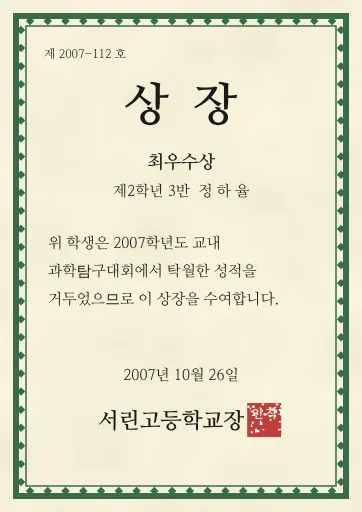
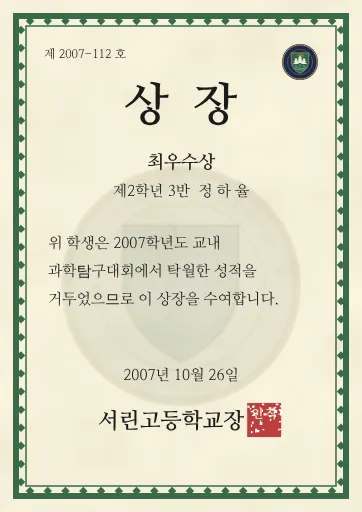
Art: framed photos rendered from the real 3D campus, 서린고 emblem and 교가
tools/capture_photos.mjs renders 11 daylight shots of the actual game world
(aerial, facade, front steps, gate/서린동 street, field, auditorium, gym,
library, classroom, broadcast room) under headless swiftshader, and
tools/photo_fx.js develops them into era photographs: 1968 deckle-edged
B&W, 80s/90s colour film prints (fade, colour cast, grain, vignette, light
leaks, orange date stamps, scanned borders, dust) and 2008 digital shots,
with indistinct uniformed silhouettes for class/club/event photos.
18 photos (6 graduation, 개교 1968, aerial hero, 1998 방송부, 체육대회,
서린제, seasons, rooms). New painted 교표 and 교가; emblem on school
certificates. artFrames: new kinds/placements (64 frames), atlas up to
2048x3072. Art total 1.4 MB.

Claude-Session: https://claude.ai/code/session_01R9gTDhU7qFYGGyPHGYxmav

Changed region(s): [[0.3343, 0.4375, 0.6685, 0.7188], [0.7597, 0.0625, 0.8812, 0.1562]]

diff --git a/tools/photo_fx.js b/tools/photo_fx.js
@@ -1,0 +1,182 @@
+// 사진 현상기 (tools/capture_photos.mjs 가 빈 페이지에 넣어 돌린다)
+//   게임 3D 장면을 찍은 원본(raw)에 인물 실루엣 · 만국기 대신 삼각 깃발 · 현수막 · 꽃가지 등을 얹고,
+//   시대별 사진 질감을 입힌다: 1968 흑백 인화(물결 테두리) · 80~90년대 컬러 필름(바램 · 색 틀어짐 · 입자 · 주변부 어둠 · 빛샘 ·
+//   오렌지 날짜 각인 · 흰 테두리 인화지 스캔) · 2008 디지털 카메라(선명 · 차가운 화이트밸런스 · 센서 노이즈).
+//   얼굴은 모두 이목구비 없이 흐릿한 실루엣이다 (실제 인물 없음).
+(() => {
+const R = s => { let a = s >>> 0; return () => { a = a + 0x6D2B79F5 | 0; let t = Math.imul(a ^ a >>> 15, 1 | a); t = t + Math.imul(t ^ t >>> 7, 61 | t) ^ t; return ((t ^ t >>> 14) >>> 0) / 4294967296; }; };
+let rnd = R(1); const rr = (a, b) => a + (b - a) * rnd();
+const mk = (w, h) => { const c = document.createElement('canvas'); c.width = w; c.height = h; return c; };
+const cx = c => c.getContext('2d', { willReadFrequently: true });
+const clamp = v => v < 0 ? 0 : v > 255 ? 255 : v;
+const RAW = {};
+window.loadRaws = async raws => { for (const [k, u] of Object.entries(raws)) { const im = new Image(); im.src = u; await im.decode(); RAW[k] = im; } };
+
+// ── 원본 자르기 ──
+function frame(src, W, H, crop = [0, 0, 1, 1]) { const im = RAW[src]; if (!im) return null; const c = mk(W, H), g = cx(c);
+  g.drawImage(im, crop[0] * im.width, crop[1] * im.height, crop[2] * im.width, crop[3] * im.height, 0, 0, W, H); return c; }
+
+// ── 인물 실루엣 (교복 · 체육복 · 정장) ──
+const SKIN = ['#c99a78', '#b88a68', '#d2a684', '#a87c5c'], HAIR = ['#141110', '#1c1712', '#221a14'];
+function person(g, x, y, s, o) {   // y = 어깨선, s = 머리 반지름 (얼굴은 이목구비 없는 흐린 타원)
+  const w = s * (o.wide || 3.1), body = o.body || s * 5;
+  const B = new Path2D(), sl = s * rr(.15, .35); B.moveTo(x - w / 2, y + s * .6); B.quadraticCurveTo(x - w / 2 + s * .05, y - s * .1 + sl, x - w * .3, y - s * .32); B.lineTo(x + w * .3, y - s * .32); B.quadraticCurveTo(x + w / 2 - s * .05, y - s * .1 + sl, x + w / 2, y + s * .6); B.lineTo(x + w / 2 - s * .05, y + body); B.lineTo(x - w / 2 + s * .05, y + body); B.closePath();
+  g.fillStyle = o.coat; g.fill(B);
+  const lg = g.createLinearGradient(x - w / 2, y - s, x + w / 2, y + body); lg.addColorStop(0, 'rgba(255,255,255,.16)'); lg.addColorStop(.45, 'rgba(255,255,255,0)'); lg.addColorStop(1, 'rgba(0,0,0,.35)'); g.fillStyle = lg; g.fill(B);
+  g.strokeStyle = 'rgba(0,0,0,.35)'; g.lineWidth = Math.max(.6, s * .12); g.beginPath(); g.moveTo(x - w * .36, y + s * .9); g.lineTo(x - w * .4, y + body); g.moveTo(x + w * .36, y + s * .9); g.lineTo(x + w * .4, y + body); g.stroke();   // 팔 윤곽
+  if (o.shirt) { g.fillStyle = o.shirt; g.beginPath(); g.moveTo(x - s * .55, y - s * .3); g.lineTo(x + s * .55, y - s * .3); g.lineTo(x, y + s * 1.5); g.closePath(); g.fill(); }
+  if (o.tie) { g.fillStyle = o.tie; g.fillRect(x - s * .14, y - s * .1, s * .28, s * 1.3); }
+  if (o.collar) { g.fillStyle = o.collar; g.fillRect(x - s * .6, y - s * .42, s * 1.2, s * .3); }
+  g.fillStyle = o.skin; g.fillRect(x - s * .32, y - s * .75, s * .64, s * .6);   // 목
+  g.beginPath(); g.ellipse(x, y - s * 1.4, s * .82, s, 0, 0, 7); g.fill();
+  const sh = g.createLinearGradient(x - s, 0, x + s, 0); sh.addColorStop(0, 'rgba(0,0,0,.18)'); sh.addColorStop(.5, 'rgba(0,0,0,0)'); sh.addColorStop(1, 'rgba(0,0,0,.22)'); g.fillStyle = sh; g.beginPath(); g.ellipse(x, y - s * 1.4, s * .82, s, 0, 0, 7); g.fill();
+  g.fillStyle = o.hair; g.beginPath();
+  if (o.long) { g.ellipse(x, y - s * 1.55, s * .92, s * .98, 0, Math.PI * .95, Math.PI * 2.05); g.fill(); g.fillRect(x - s * .92, y - s * 1.55, s * .3, s * 1.45); g.fillRect(x + s * .62, y - s * 1.55, s * .3, s * 1.45); }
+  else { g.ellipse(x, y - s * 1.62, s * .86, s * .82, 0, Math.PI, Math.PI * 2); g.fill(); g.fillRect(x - s * .86, y - s * 1.66, s * .2, s * .55); g.fillRect(x + s * .66, y - s * 1.66, s * .2, s * .55); }
+  if (o.cap) { g.fillStyle = o.cap; g.fillRect(x - s * .9, y - s * 2.4, s * 1.8, s * .55); g.fillRect(x - s * 1.05, y - s * 1.9, s * 2.1, s * .14); }
+}
+const UNI = {   // 졸업 연도별 교복
+  1968: { coat: '#1a1a1c', collar: '#1a1a1c', cap: '#141416', hair: 1 },
+  1989: { coat: '#1b1c22', collar: '#e8e6e0', hair: 1 },
+  1993: { coat: '#20243a', shirt: '#e6e4de', tie: '#5a2026' },
+  1997: { coat: '#1f2a44', shirt: '#ebe9e4', tie: '#6a1e2a' },
+  2001: { coat: '#2a3426', shirt: '#ecebe6', tie: '#6a5520' },
+  2004: { coat: '#1e2740', shirt: '#eeeeea', tie: '#7a2030' },
+  2007: { coat: '#262c3e', shirt: '#f0f0ee', tie: '#2a4a7a' },
+};
+function crowdRows(c, o) {   // 계단 위 단체 사진: rows = [[y(0..1), 명수, 머리 반지름(px)], ...] 뒤에서 앞 순서
+  const L = mk(c.width, c.height), g = cx(L), W = c.width, u = o.uni, x0 = (o.x0 ?? .08) * W, x1 = (o.x1 ?? .92) * W;
+  o.rows.forEach(([fy, n, s], ri) => { const y = fy * c.height, dx = (x1 - x0) / (n - 1), off = ri % 2 ? dx / 2 : 0;
+    for (let i = 0; i < n; i++) { const x = x0 + i * dx + off * (i < n - 1 ? 1 : 0) + rr(-1.5, 1.5), girl = o.mixed && rnd() < .45, teacher = ri === o.rows.length - 1 && Math.abs(i - (n - 1) / 2) < 2.1 && o.teachers;
+      person(g, x, y + rr(-1.5, 1.5), s * rr(.94, 1.05), teacher ? { coat: ['#3a3a3e', '#4a4238', '#2c2e34'][i % 3], shirt: '#e8e6e0', tie: '#5a3030', skin: SKIN[i % 4], hair: '#2a2622', wide: 3.3 }
+        : { ...u, cap: u.cap && !girl ? u.cap : null, long: girl, skin: SKIN[(i + ri) % 4], hair: HAIR[i % 3], body: s * 6 }); } });
+  const b = mk(c.width, c.height), q = cx(b); q.filter = `blur(${o.soft ?? .7}px)`; q.drawImage(L, 0, 0); cx(c).drawImage(b, 0, 0);
+  // 발치 그림자
+  const G = cx(c); G.fillStyle = 'rgba(0,0,0,.18)'; o.rows.forEach(([fy, n, s]) => G.fillRect(x0 - s, fy * c.height + s * 5.4, x1 - x0 + 2 * s, s * .8));
+}
+function scatter(c, n, area, s, o) {   // 운동장 · 광장의 작은 사람들
+  const g = cx(c); for (let i = 0; i < n; i++) { const fy = rr(area[1], area[3]), k = .55 + (fy - area[1]) / (area[3] - area[1]) * .7, x = rr(area[0], area[2]) * c.width, y = fy * c.height;
+    person(g, x, y, s * k, { coat: o.coats[i % o.coats.length], shirt: o.shirt, skin: SKIN[i % 4], hair: HAIR[i % 3], long: rnd() < .4, body: s * k * 5.5 }); }
+}
+function bunting(c, lines, seed) {   // 운동장 위 줄 깃발 (단색 삼각기 — 국기 아님)
+  const g = cx(c), cols = ['#d23a2a', '#f0c22a', '#2a6ad0', '#2aa04a', '#f4f0e8', '#e06a1a']; rnd = R(seed);
+  for (const [x0, y0, x1, y1, sag] of lines) { const W = c.width, H = c.height; g.strokeStyle = 'rgba(40,40,40,.7)'; g.lineWidth = 1; g.beginPath();
+    const P = t => [(x0 + (x1 - x0) * t) * W, (y0 + (y1 - y0) * t + sag * 4 * t * (1 - t)) * H]; for (let t = 0; t <= 1.001; t += .02) { const [x, y] = P(t); t ? g.lineTo(x, y) : g.moveTo(x, y); } g.stroke();
+    const n = 34; for (let i = 0; i < n; i++) { const t = (i + .5) / n, [x, y] = P(t), sz = 6 * (1 - Math.abs(t - .5) * .3); g.fillStyle = cols[i % cols.length]; g.beginPath(); g.moveTo(x - sz * .6, y); g.lineTo(x + sz * .6, y); g.lineTo(x + rr(-1, 1), y + sz * 1.3); g.closePath(); g.fill(); } }
+}
+function banner(c, x, y, w, h, txt, sub, col = '#b8242a') { const g = cx(c); g.save(); g.fillStyle = col; g.fillRect(x, y, w, h); g.strokeStyle = 'rgba(255,255,255,.7)'; g.lineWidth = 1; g.strokeRect(x + 2, y + 2, w - 4, h - 4);
+  g.fillStyle = '#fff8e0'; g.textAlign = 'center'; g.textBaseline = 'middle'; g.font = `700 ${h * .5 | 0}px "Noto Sans KR"`; g.fillText(txt, x + w / 2, y + h * (sub ? .4 : .52), w - 8);
+  if (sub) { g.font = `400 ${h * .22 | 0}px "Noto Sans KR"`; g.fillText(sub, x + w / 2, y + h * .78, w - 8); } g.restore(); }
+function tent(c, x, y, w, h, col) { const g = cx(c); g.fillStyle = col; g.beginPath(); g.moveTo(x, y + h * .35); g.lineTo(x + w * .15, y); g.lineTo(x + w * .85, y); g.lineTo(x + w, y + h * .35); g.closePath(); g.fill();
+  g.fillStyle = 'rgba(0,0,0,.35)'; g.fillRect(x + w * .02, y + h * .35, w * .96, h * .06); g.fillStyle = '#555'; g.fillRect(x + 2, y + h * .35, 1.5, h * .65); g.fillRect(x + w - 3, y + h * .35, 1.5, h * .65); }
+function branches(c, side, kind, seed) {   // 초점 밖 앞쪽 나뭇가지: 벚꽃(spring) · 은행잎(autumn)
+  rnd = R(seed); const L = mk(c.width, c.height), g = cx(L), W = c.width, H = c.height, sx = side === 'L' ? 0 : W, dir = side === 'L' ? 1 : -1;
+  const pts = []; g.strokeStyle = '#2a1e18'; g.lineCap = 'round';
+  const br = (x, y, a, len, w, d) => { const x2 = x + Math.cos(a) * len, y2 = y + Math.sin(a) * len; g.lineWidth = w; g.beginPath(); g.moveTo(x, y); g.quadraticCurveTo((x + x2) / 2 + rr(-8, 8), (y + y2) / 2 + rr(-8, 8), x2, y2); g.stroke(); pts.push([x2, y2]);
+    if (d > 0) { br(x2, y2, a + rr(-.6, -.15), len * .66, w * .62, d - 1); br(x2, y2, a + rr(.15, .6), len * .62, w * .6, d - 1); } else pts.push([(x + x2) / 2, (y + y2) / 2]); };
+  br(sx, H * .06, side === 'L' ? .35 : Math.PI - .35, W * .2, 9, 4);
+  for (const [x, y] of pts) for (let k = 0; k < (kind === 'spring' ? 7 : 4); k++) { const r = rr(3, 7); g.fillStyle = kind === 'spring' ? `rgba(${248 + rr(-6, 6) | 0},${214 + rr(-20, 20) | 0},${222 + rr(-10, 10) | 0},.9)` : `rgba(${232 + rr(-10, 10) | 0},${186 + rr(-24, 20) | 0},${40 + rr(-20, 20) | 0},.92)`; g.beginPath(); g.arc(x + rr(-12, 12), y + rr(-10, 10), r, 0, 7); g.fill(); }
+  const b = cx(c); b.save(); b.filter = 'blur(3px)'; b.drawImage(L, 0, 0); b.restore();
+  if (kind === 'autumn') { const q = cx(c); for (let i = 0; i < 90; i++) { q.fillStyle = `rgba(${226 + rr(-12, 12) | 0},${180 + rr(-30, 20) | 0},40,${rr(.5, .9)})`; q.beginPath(); q.ellipse(rr(0, W), rr(.86, 1) * H, rr(1.5, 3), rr(1, 1.8), rr(0, 3), 0, 7); q.fill(); } }
+}
+
+// ── 필름 · 인화 · 디지털 질감 ──
+function develop(c, o) {
+  rnd = R(o.seed || 7); const W = c.width, H = c.height, g = cx(c);
+  if (o.blur) { const b = mk(W, H), q = cx(b); q.filter = `blur(${o.blur}px)`; q.drawImage(c, 0, 0); g.clearRect(0, 0, W, H); g.drawImage(b, 0, 0); }
+  if (o.sharpen) { const b = mk(W, H), q = cx(b); q.filter = 'blur(1px)'; q.drawImage(c, 0, 0); const A = g.getImageData(0, 0, W, H), B = q.getImageData(0, 0, W, H), a = A.data, bb = B.data; for (let i = 0; i < a.length; i += 4) for (let k = 0; k < 3; k++) a[i + k] = clamp(a[i + k] + (a[i + k] - bb[i + k]) * o.sharpen); g.putImageData(A, 0, 0); }
+  const d = g.getImageData(0, 0, W, H), p = d.data, [sr, sg, sb] = o.shift || [0, 0, 0], fade = o.fade || 0, sat = o.sat ?? 1, sep = o.sepia || 0, con = o.contrast ?? 1, vig = o.vignette ?? .35, gr = o.grain || 0, mono = o.mono, lift = o.lift || [0, 0, 0], bright = o.bright ?? 1;
+  const gn = new Float32Array((W >> 1) * (H >> 1) + W); for (let i = 0; i < gn.length; i++) gn[i] = (rnd() + rnd() + rnd() - 1.5);   // 입자 (2px 덩어리)
+  for (let y = 0; y < H; y++) for (let x = 0; x < W; x++) { const i = (y * W + x) * 4; let r = p[i] * bright, G = p[i + 1] * bright, b = p[i + 2] * bright;
+    const l = r * .3 + G * .59 + b * .11;
+    r = l + (r - l) * sat; G = l + (G - l) * sat; b = l + (b - l) * sat;
+    if (mono) { r = G = b = l; }
+    if (sep) { const sr2 = l * 1.07 + 18, sg2 = l * .95 + 8, sb2 = l * .78 - 4; r += (sr2 - r) * sep; G += (sg2 - G) * sep; b += (sb2 - b) * sep; }
+    r = (r - 128) * con + 128 + sr; G = (G - 128) * con + 128 + sg; b = (b - 128) * con + 128 + sb;
+    r = r * (1 - fade) + (lift[0] + 60) * fade; G = G * (1 - fade) + (lift[1] + 58) * fade; b = b * (1 - fade) + (lift[2] + 52) * fade;
+    const nx = x / W - .5, ny = y / H - .5, v = 1 - vig * Math.pow((nx * nx + ny * ny) * 2.2, 1.4);
+    const n = gr * gn[(y >> 1) * (W >> 1) + (x >> 1)] * (1 - Math.abs(l - 128) / 300) + gr * .35 * (rnd() - .5);
+    p[i] = clamp(r * v + n); p[i + 1] = clamp(G * v + n * (mono ? 1 : .95)); p[i + 2] = clamp(b * v + n * (mono ? 1 : 1.08)); }
+  g.putImageData(d, 0, 0);
+  if (o.leak) { const [lx, ly, lr, col] = o.leak; const G = g.createRadialGradient(lx * W, ly * H, 0, lx * W, ly * H, lr * W); G.addColorStop(0, col); G.addColorStop(1, 'rgba(255,120,40,0)'); g.save(); g.globalCompositeOperation = 'screen'; g.fillStyle = G; g.fillRect(0, 0, W, H); g.restore(); }
+  if (o.dust) { for (let i = 0; i < o.dust; i++) { g.fillStyle = rnd() < .7 ? `rgba(255,255,250,${rr(.3, .8)})` : `rgba(20,16,12,${rr(.3, .7)})`; g.beginPath(); g.ellipse(rr(0, W), rr(0, H), rr(.4, 1.3), rr(.4, 1), rr(0, 3), 0, 7); g.fill(); }
+    for (let i = 0; i < (o.scratch || 0); i++) { g.strokeStyle = `rgba(250,248,240,${rr(.15, .4)})`; g.lineWidth = rr(.4, .9); const x = rr(0, W), y = rr(0, H); g.beginPath(); g.moveTo(x, y); g.quadraticCurveTo(x + rr(-20, 20), y + rr(10, 40), x + rr(-30, 30), y + rr(30, 90)); g.stroke(); }
+    if (o.hair) { g.strokeStyle = 'rgba(20,18,14,.5)'; g.lineWidth = .7; const x = rr(W * .2, W * .8), y = rr(H * .2, H * .8); g.beginPath(); g.moveTo(x, y); g.bezierCurveTo(x + 20, y - 15, x + 10, y + 25, x + 34, y + 12); g.stroke(); } }
+  if (o.date) { g.save(); g.font = `700 ${Math.round(H * .055)}px "Nanum Gothic Coding", monospace`; g.textAlign = 'right'; g.textBaseline = 'alphabetic';
+    g.shadowColor = 'rgba(255,110,20,.9)'; g.shadowBlur = 4; g.fillStyle = 'rgba(255,150,50,.92)'; g.fillText(o.date, W * .93, H * .91); g.shadowBlur = 0; g.fillStyle = 'rgba(255,214,140,.55)'; g.fillText(o.date, W * .93, H * .91); g.restore(); }
+  if (o.caption) { const [txt, pos, font] = o.caption; g.save(); g.font = font || `700 ${Math.round(H * .05)}px "Noto Serif KR"`; g.textAlign = 'center'; g.fillStyle = 'rgba(250,246,236,.92)'; g.shadowColor = 'rgba(0,0,0,.5)'; g.shadowBlur = 2; g.fillText(txt, W / 2, pos * H); g.restore(); }
+  return c;
+}
+function print(c, o) {   // 인화지 테두리 · 스캔 (white: 90년대 현상소 · deckle: 60년대 물결 테두리 · none)
+  if (!o.border || o.border === 'none') return c; rnd = R((o.seed || 1) + 99);
+  const b = o.border === 'deckle' ? .07 : .045, W = c.width, H = c.height, T = Math.round(Math.min(W, H) * b), out = mk(W + T * 2, H + T * 2), g = cx(out), OW = out.width, OH = out.height;
+  g.fillStyle = '#5a5248'; g.fillRect(0, 0, OW, OH);   // 스캐너 뚜껑 그림자
+  g.fillStyle = o.paper || (o.border === 'deckle' ? '#ece2cc' : '#f2efe6'); g.beginPath();
+  if (o.border === 'deckle') { const s = 3, e = 2.5; for (let x = 2; x <= OW - 2; x += s) g.lineTo(x, 2 + rr(0, e)); for (let y = 2; y <= OH - 2; y += s) g.lineTo(OW - 2 - rr(0, e), y); for (let x = OW - 2; x >= 2; x -= s) g.lineTo(x, OH - 2 - rr(0, e)); for (let y = OH - 2; y >= 2; y -= s) g.lineTo(2 + rr(0, e), y); }
+  else { const r = 4; g.roundRect(1.5, 1.5, OW - 3, OH - 3, r); }
+  g.fill(); g.drawImage(c, T, T);
+  const d = g.getImageData(0, 0, OW, OH), p = d.data; for (let i = 0; i < p.length; i += 4) { const y = (i / 4 / OW) | 0, x = (i / 4) % OW, edge = Math.min(x, y, OW - x, OH - y) / Math.min(OW, OH);   // 종이 누렇게 바램 (가장자리 더)
+    const k = (o.yellow || .08) * (1 - Math.min(1, edge * 6)); p[i + 2] = clamp(p[i + 2] * (1 - k * 1.2)); p[i + 1] = clamp(p[i + 1] * (1 - k * .4)); }
+  g.putImageData(d, 0, 0);
+  if (o.ink) { g.save(); g.font = `400 ${Math.round(T * .9)}px "Nanum Pen Script"`; g.fillStyle = 'rgba(40,40,70,.75)'; g.textAlign = 'right'; g.fillText(o.ink, OW - T * 1.3, OH - T * .22); g.restore(); }
+  return out;
+}
+
+// ── 사진 목록 ──
+const L = [];
+const add = (name, src, fn) => L.push({ name, src, fn });
+const gradYear = (y, crop, seed, src = 'steps') => add(`photo_grad_${y}`, src, () => { rnd = R(seed); const c = frame(src, 512, 340, crop); if (!c) return null;
+  const s = src === 'facade' ? 5.6 : 6.2, mixed = y >= 1997; crowdRows(c, { uni: UNI[y], mixed, teachers: true, rows: [[.52, 19, s * 1.12], [.585, 19, s * 1.18], [.65, 18, s * 1.24], [.715, 18, s * 1.3], [.79, 17, s * 1.36]], x0: .08, x1: .92 });
+  const n = y - 1970, old = y < 1992, mid = y < 2002;
+  develop(c, { seed, bright: 1.18, blur: old ? 1 : .7, sat: old ? .55 : mid ? .82 : 1, fade: old ? .3 : mid ? .18 : .06, sepia: old ? .35 : 0, shift: old ? [10, 2, -14] : mid ? [8, 0, -6] : [0, 0, 4], contrast: old ? .9 : 1.04, grain: old ? 26 : mid ? 16 : 7, vignette: old ? .5 : .3, dust: old ? 70 : mid ? 30 : 0, scratch: old ? 5 : 1,
+    caption: [`제${n}회 졸업기념  ${y}. 2.`, .1, `700 ${y < 2000 ? 19 : 17}px "${y < 2000 ? 'Noto Serif KR' : 'Noto Sans KR'}"`], leak: y === 1993 ? [1, .1, .5, 'rgba(255,120,40,.35)'] : null });
+  return print(c, { border: y < 2004 ? 'white' : 'none', seed, yellow: old ? .16 : .07 }); });
+gradYear(1989, [.12, .18, .78, .82], 189, 'facade'); gradYear(1993, [.0, .04, 1, .96], 193); gradYear(1997, [.2, .2, .62, .8], 197, 'facade');
+gradYear(2001, [.0, .02, 1, .98], 201); gradYear(2004, [.03, .05, .94, .95], 204); gradYear(2007, [.0, .0, 1, 1], 207);
+
+add('photo_opening_1968', 'facade', () => { rnd = R(68); const c = frame('facade', 512, 352, [.05, .1, .9, .9]); if (!c) return null;
+  crowdRows(c, { uni: UNI[1968], teachers: true, rows: [[.72, 22, 4.6], [.82, 20, 5.2]], x0: .1, x1: .9, soft: .9 });
+  develop(c, { seed: 68, bright: 1.3, blur: 1.2, mono: true, sepia: .55, contrast: .95, fade: .22, grain: 30, vignette: .55, dust: 110, scratch: 9, hair: 1, caption: ['서린고등학교 개교 기념  1968. 3. 2.', .1, '700 19px "Nanum Myeongjo"'] });
+  return print(c, { border: 'deckle', seed: 68, yellow: .22 }); });
+add('photo_aerial_campus', 'aerial', () => { const c = frame('aerial', 1024, 704, [.04, .12, .92, .88]); if (!c) return null;
+  develop(c, { seed: 3, sharpen: .4, sat: 1.08, contrast: 1.06, shift: [4, 4, 0], grain: 6, vignette: .22, bright: 1.05, caption: null });
+  const g = cx(c); g.fillStyle = 'rgba(250,250,245,.85)'; g.font = '700 22px "Noto Sans KR"'; g.textAlign = 'left'; g.fillText('서린고등학교 전경 · 2007. 10.', 22, 690); return c; });
+add('photo_gate_1994', 'gate', () => { rnd = R(94); const c = frame('gate', 512, 352); if (!c) return null; branches(c, 'R', 'spring', 94);
+  develop(c, { seed: 94, blur: .8, sat: .85, fade: .2, shift: [12, 4, -8], contrast: .96, grain: 18, vignette: .45, leak: [0, .9, .6, 'rgba(255,90,30,.45)'], dust: 30, scratch: 1, date: "'94 4 12" });
+  return print(c, { border: 'white', seed: 94, yellow: .1 }); });
+add('photo_gate_autumn_1996', 'gate_in', () => { rnd = R(96); const c = frame('gate_in', 512, 352); if (!c) return null; branches(c, 'L', 'autumn', 96);
+  develop(c, { seed: 96, blur: .7, sat: .9, fade: .16, shift: [16, 6, -14], contrast: 1, grain: 16, vignette: .42, dust: 24, date: "'96 10 21" });
+  return print(c, { border: 'white', seed: 96 }); });
+add('photo_sports_1997', 'field', () => { rnd = R(97); const c = frame('field', 512, 352); if (!c) return null;
+  bunting(c, [[0, .05, 1, .14, .1], [0, .2, .8, .02, .08]], 97);
+  tent(c, 30, 196, 80, 34, '#e8e6dc'); tent(c, 108, 186, 70, 30, '#3a6ac0');
+  scatter(c, 70, [.3, .55, .95, .9], 5.2, { coats: ['#f2f2ee', '#f2f2ee', '#1e2a6a', '#c8302a', '#f2f2ee'], shirt: null });
+  develop(c, { seed: 97, blur: .7, sat: .92, fade: .15, shift: [10, 2, -8], contrast: 1.02, grain: 16, vignette: .4, dust: 20, leak: [1, 0, .45, 'rgba(255,140,50,.3)'], date: "'97 5 3" });
+  return print(c, { border: 'white', seed: 97 }); });
+add('photo_seorinje_2007', 'aud', () => { rnd = R(207); const c = frame('aud', 512, 352); if (!c) return null;
+  banner(c, 152, 120, 160, 34, '제40회 서린제', '2007. 10. 19 ~ 20 · 대강당');
+  scatter(c, 46, [.05, .74, .98, .97], 6, { coats: ['#262c3e', '#262c3e', '#e8e8e4', '#3a3a40'], shirt: '#f0f0ee' });
+  develop(c, { seed: 207, sharpen: .6, sat: 1.12, contrast: 1.06, shift: [-2, 0, 8], grain: 7, vignette: .15, bright: 1.06 }); return c; });
+add('photo_bcast_1998', 'bcast', () => { rnd = R(198); const c = frame('bcast', 500, 392, [.0, .06, 1, .94]); if (!c) return null;
+  const g = cx(c); [[.36, .62, 10, 0], [.47, .61, 10, 1], [.58, .62, 10.4, 0], [.69, .63, 10, 1], [.41, .72, 11, 1], [.53, .73, 11.2, 0], [.65, .73, 11, 0]].forEach(([x, y, s, gl], i) => person(g, x * 500, y * 392, s, { coat: i === 2 ? '#3a4a6a' : '#1f2a44', shirt: '#ebe9e4', tie: '#6a1e2a', skin: SKIN[i % 4], hair: HAIR[i % 3], long: !!gl, body: s * 8, wide: 3.4 }));
+  const b = mk(500, 392), q = cx(b); q.filter = 'blur(.6px)'; q.drawImage(c, 0, 0); g.drawImage(b, 0, 0);
+  develop(c, { seed: 198, bright: 1.45, blur: .9, sat: .82, fade: .26, shift: [14, -2, 6], contrast: .95, grain: 22, vignette: .5, leak: [0, .15, .55, 'rgba(255,80,40,.4)'], dust: 46, scratch: 2, date: "'98 9 25" });
+  return print(c, { border: 'white', seed: 198, yellow: .12 }); });
+add('photo_gym_2005', 'gym', () => { const c = frame('gym', 512, 352); if (!c) return null; develop(c, { seed: 205, sharpen: .4, sat: 1.04, contrast: 1.05, shift: [6, 2, -4], grain: 9, vignette: .25, bright: 1.08 }); return c; });
+add('photo_library_2008', 'library', () => { const c = frame('library', 512, 352); if (!c) return null; develop(c, { seed: 208, sharpen: .5, sat: 1.05, contrast: 1.04, shift: [-2, 0, 6], grain: 8, vignette: .18, bright: 1.08 }); return c; });
+add('photo_classroom_2006', 'classroom', () => { const c = frame('classroom', 512, 352); if (!c) return null; develop(c, { seed: 206, sharpen: .5, sat: 1.02, contrast: 1.04, shift: [0, 2, 6], grain: 9, vignette: .2, bright: 1.06 }); return c; });
+add('photo_spring_1999', 'facade', () => { rnd = R(99); const c = frame('facade', 512, 352, [.06, .02, .9, .92]); if (!c) return null; branches(c, 'L', 'spring', 99);
+  develop(c, { seed: 99, blur: .7, sat: .95, fade: .14, shift: [8, 6, -2], contrast: 1, grain: 15, vignette: .38, dust: 18, date: "'99 4 8", lift: [10, 4, 8] });
+  return print(c, { border: 'white', seed: 99 }); });
+add('photo_autumn_2006', 'steps', () => { rnd = R(106); const c = frame('steps', 512, 352, [.1, 0, .9, 1]); if (!c) return null; branches(c, 'R', 'autumn', 106);
+  develop(c, { seed: 106, sharpen: .5, sat: 1.1, contrast: 1.05, shift: [10, 4, -8], grain: 7, vignette: .2, bright: 1.04 }); return c; });
+
+window.PHOTO_LIST = L.map(x => x.name);
+window.developOne = (name, q = .82) => { const e = L.find(x => x.name === name); const c = e.fn(); if (!c) return null; const s = Math.min(1, (name === 'photo_aerial_campus' ? 768 : 512) / Math.max(c.width, c.height));
+  let o = c; if (s < 1) { o = mk(Math.round(c.width * s), Math.round(c.height * s)); const g = cx(o); g.imageSmoothingQuality = 'high'; g.drawImage(c, 0, 0, o.width, o.height); }
+  return { url: o.toDataURL('image/webp', q), w: o.width, h: o.height }; };
+window.contactSheet = async urls => { const cols = 5, cw = 300, ch = 250, rows = Math.ceil(urls.length / cols), c = mk(cols * cw, rows * ch), g = cx(c); g.fillStyle = '#333'; g.fillRect(0, 0, c.width, c.height);
+  for (let i = 0; i < urls.length; i++) { const im = new Image(); im.src = urls[i].url; await im.decode(); const s = Math.min((cw - 12) / im.width, (ch - 34) / im.height), w = im.width * s, h = im.height * s, x = (i % cols) * cw + (cw - w) / 2, y = Math.floor(i / cols) * ch + 6;
+    g.drawImage(im, x, y, w, h); g.fillStyle = '#ddd'; g.font = '12px sans-serif'; g.textAlign = 'center'; g.fillText(urls[i].name, (i % cols) * cw + cw / 2, Math.floor(i / cols) * ch + ch - 10); }
+  return c.toDataURL('image/png'); };
+})();

diff --git a/tools/art_painter.js b/tools/art_painter.js
@@ -212,6 +212,7 @@ function certificate(seed, o) { rnd = R(seed); const W = 362, H = 512, c = mk(W,
   const bc = o.border || '#3a6a4a'; g.strokeStyle = bc; g.lineWidth = 6; g.strokeRect(16, 16, W - 32, H - 32); g.lineWidth = 1.5; g.strokeRect(26, 26, W - 52, H - 52);
   g.fillStyle = bc; for (let k = 0; k < 18; k++) { [[30 + k * (W - 60) / 17, 21], [30 + k * (W - 60) / 17, H - 21]].forEach(([x, y]) => { g.save(); g.translate(x, y); g.rotate(Math.PI / 4); g.fillRect(-3, -3, 6, 6); g.restore(); }); }
   for (let k = 0; k < 26; k++) { [[21, 30 + k * (H - 60) / 25], [W - 21, 30 + k * (H - 60) / 25]].forEach(([x, y]) => { g.save(); g.translate(x, y); g.rotate(Math.PI / 4); g.fillRect(-3, -3, 6, 6); g.restore(); }); }
+  if (/서린고등학교장/.test(o.by)) { emblem(g, W / 2, H / 2 + 30, 120, { alpha: .07 }); emblem(g, W - 62, 62, 18); }
   g.fillStyle = '#1a1a1a'; g.textAlign = 'left'; g.font = '400 12px "Nanum Myeongjo"'; g.fillText(o.no, 44, 58);
   g.textAlign = 'center'; g.font = '700 46px "Nanum Myeongjo"'; g.fillText(o.title || '상  장', W / 2, 120);
   g.font = '700 18px "Nanum Myeongjo"'; g.fillText(o.prize, W / 2, 168); g.font = '400 15px "Nanum Myeongjo"'; g.fillText(o.who, W / 2, 196);
@@ -277,6 +278,37 @@ const POSTERS = [
       for (let k = 0; k < 40; k++) { g.fillStyle = `rgba(255,255,220,${rr(.2, .9)})`; g.fillRect(rr(0, W), rr(0, H * .7), 2, 2); } } },
 ];
 
+// ── 서린고 교표 (원 + 방패 · 세 그루 소나무 숲 · 물결 · 금빛 '서린' · 둘레 글자) ──
+function emblem(g, x, y, Rr, o = {}) { const gold = o.gold || '#c8a24a', navy = o.navy || '#1c2a52', green = o.green || '#2e6a44', a = o.alpha ?? 1;
+  g.save(); g.globalAlpha = a; g.translate(x, y);
+  g.fillStyle = navy; g.beginPath(); g.arc(0, 0, Rr, 0, 7); g.fill(); g.strokeStyle = gold; g.lineWidth = Rr * .05; g.beginPath(); g.arc(0, 0, Rr * .95, 0, 7); g.stroke(); g.lineWidth = Rr * .02; g.beginPath(); g.arc(0, 0, Rr * .7, 0, 7); g.stroke();
+  const ring = (txt, r, a0, a1, sz, flip) => { g.font = `700 ${sz}px "Noto Serif KR"`; g.fillStyle = gold; g.textAlign = 'center'; g.textBaseline = 'middle'; const n = txt.length;
+    for (let i = 0; i < n; i++) { const t = a0 + (a1 - a0) * (n === 1 ? .5 : i / (n - 1)); g.save(); g.rotate(t); g.translate(0, flip ? r : -r); g.fillText(txt[i], 0, 0); g.restore(); } };
+  if (Rr > 40) { ring('SEORIN HIGH SCHOOL', Rr * .83, -1.15, 1.15, Rr * .12 | 0, false); ring('1968', Rr * .83, .3, -.3, Rr * .12 | 0, true);
+    g.fillStyle = gold; [-1.42, 1.42].forEach(t => { g.save(); g.rotate(t); g.translate(0, -Rr * .83); g.beginPath(); g.arc(0, 0, Rr * .025, 0, 7); g.fill(); g.restore(); }); }
+  const S = Rr * .62, sh = new Path2D(); sh.moveTo(-S * .78, -S * .82); sh.lineTo(S * .78, -S * .82); sh.lineTo(S * .78, S * .05); sh.quadraticCurveTo(S * .7, S * .7, 0, S * 1.02); sh.quadraticCurveTo(-S * .7, S * .7, -S * .78, S * .05); sh.closePath();
+  g.fillStyle = green; g.fill(sh); g.strokeStyle = gold; g.lineWidth = Rr * .035; g.stroke(sh);
+  g.save(); g.clip(sh);
+  g.fillStyle = '#f4efe0'; [[-S * .36, S * .32, .82], [0, S * .26, 1], [S * .36, S * .32, .82]].forEach(([tx, ty, k]) => { for (let j = 0; j < 3; j++) { const w = S * (.34 - j * .08) * k, top = ty - S * (.32 + j * .2) * k; g.beginPath(); g.moveTo(tx, top - S * .14 * k); g.lineTo(tx + w, top + S * .14 * k); g.lineTo(tx - w, top + S * .14 * k); g.closePath(); g.fill(); } g.fillRect(tx - S * .03, ty, S * .06, S * .12); });
+  g.strokeStyle = '#9cc4e4'; g.lineWidth = S * .05; for (let k = 0; k < 2; k++) { g.beginPath(); for (let t = -S; t <= S; t += 2) g.lineTo(t, S * (.55 + k * .14) + Math.sin(t / S * 9) * S * .04); g.stroke(); }
+  g.restore();
+  g.fillStyle = gold; g.font = `700 ${S * .44 | 0}px "Nanum Myeongjo"`; g.textAlign = 'center'; g.textBaseline = 'middle'; g.fillText('서린', 0, -S * .58);
+  g.restore(); }
+function emblemFrame(seed) { rnd = R(seed); const W = 400, H = 512, c = mk(W, H), g = ctx(c), n = noise(seed);
+  g.fillStyle = '#1a2340'; g.fillRect(0, 0, W, H); eachPx(c, (p, i, x, y) => { const v = (fbm(n, x * .3, y * .3, 2) - .5) * 16; p[i] = clamp(p[i] + v); p[i + 1] = clamp(p[i + 1] + v); p[i + 2] = clamp(p[i + 2] + v); });   // 벨벳
+  g.strokeStyle = '#c8a24a'; g.lineWidth = 2; g.strokeRect(18, 18, W - 36, H - 36);
+  g.shadowColor = 'rgba(0,0,0,.6)'; g.shadowBlur = 14; g.shadowOffsetY = 5; emblem(g, W / 2, 210, 140); g.shadowColor = 'transparent';
+  g.fillStyle = '#d8b65a'; g.textAlign = 'center'; g.textBaseline = 'alphabetic'; g.font = '700 34px "Nanum Myeongjo"'; g.fillText('서 린 고 등 학 교', W / 2, 410); g.font = '400 15px "Noto Serif KR"'; g.fillStyle = '#b8a070'; g.fillText('교표  ·  숲처럼 푸르게, 물처럼 맑게', W / 2, 446);
+  return c; }
+function schoolSong(seed) { rnd = R(seed); const W = 362, H = 512, c = hanji(W, H, seed), g = ctx(c);
+  emblem(g, W / 2, 52, 28); g.textBaseline = 'alphabetic';
+  g.fillStyle = '#1a1612'; g.textAlign = 'center'; g.font = '700 26px "Nanum Myeongjo"'; g.fillText('서린고등학교 교가', W / 2, 112);
+  const V = [['1.', '푸른 산 정기 받아 우뚝 선 배움터', '서린의 숲 우거져 그늘도 깊다', '슬기를 갈고 닦아 내일을 여는', '아아 우리 서린 영원하여라'], ['2.', '맑은 물 굽이굽이 흘러가듯이', '성실 정직 봉사로 함께 걸으리', '겨레의 빛이 되어 세상에 서는', '아아 우리 서린 영원하여라']];
+  let y = 156; g.font = '400 16px "Nanum Myeongjo"';
+  for (const v of V) { g.textAlign = 'left'; g.fillText(v[0], 40, y); for (let i = 1; i < v.length; i++) { g.fillText(v[i], 64, y); y += 30; } y += 18; }
+  g.textAlign = 'center'; g.font = '400 13px "Nanum Myeongjo"'; g.fillStyle = '#4a4036'; g.fillText('1968년 개교와 함께 제정', W / 2, H - 46);
+  return c; }
+
 const LIST = [];
 const add = (name, fn) => LIST.push({ name, fn });
 add('oil_mountain_mist', () => mountains(11, 'mist')); add('oil_mountain_dawn', () => mountains(23, 'dawn')); add('oil_mountain_autumn', () => mountains(37, 'autumn'));
@@ -284,8 +316,8 @@ add('oil_hanok_village', () => hanok(41)); add('oil_hanok_village2', () => hanok
 add('oil_sea_dusk', () => seaDusk(61)); add('oil_sea_dusk2', () => seaDusk(77));
 [[6, '오병철', '1981 ~ 1986', { glasses: 1 }], [7, '윤재덕', '1986 ~ 1991', { bald: 1, grey: 1 }], [8, '서동만', '1991 ~ 1996', { glasses: 1, grey: 1 }], [9, '한석규', '1996 ~ 1999', { badge: 1 }], [10, '임정길', '1999 ~ 2003', { glasses: 1 }], [11, '차상호', '2003 ~ 2007', { grey: 1, badge: 1 }]]
   .forEach(([n, nm, y, o]) => add(`portrait_p${n}`, () => portrait(100 + n, `제${n}대 교장`, nm, y, o)));
-[1989, 1993, 1997, 2001, 2004, 2007].forEach(y => add(`photo_grad_${y}`, () => gradPhoto(200 + y % 100, y)));
-add('photo_bcast_1998', () => bcastPhoto(1998));
+// 사진(photo_*)은 tools/capture_photos.mjs 가 실제 3D 장면을 찍어 만든다
+add('emblem_seorin', () => emblemFrame(7)); add('callig_school_song', () => schoolSong(8));
 add('callig_motto', () => motto(5)); add('callig_scroll', () => scroll(6));
 add('cert_science_2007', () => certificate(301, { no: '제 2007-112 호', prize: '최우수상', who: '제2학년 3반  정 하 율', body: '위 학생은 2007학년도 교내 과학탐구대회에서 탁월한 성적을 거두었으므로 이 상장을 수여합니다.', date: '2007년 10월 26일', by: '서린고등학교장' }));
 add('cert_choir_2006', () => certificate(302, { no: '제 2006-41 호', prize: '대  상', who: '제2학년 5반', border: '#6a3a5a', body: '위 학급은 2006학년도 서린 합창제에서 아름다운 화음과 협동심으로 으뜸이 되었기에 이 상장을 수여합니다.', date: '2006년 10월 20일', by: '서린고등학교장' }));

diff --git a/rebuild/artFrames.js b/rebuild/artFrames.js
@@ -18,23 +18,26 @@ const KIND = {
   cert: { L: .44, bw: .025, d: .025, frame: 'gilt', glass: true },
   poster: { L: .62, bw: .014, d: .02, frame: 'alu', glass: true },
   student: { L: .6, bw: .02, d: .022, frame: 'oak', glass: true },
+  hero: { L: 1.3, bw: .035, d: .035, frame: 'black', glass: true },   // 학교 전경 항공 사진
+  emblem: { L: .7, bw: .06, d: .045, frame: 'gilt', glass: true },   // 교표
+  song: { L: .78, bw: .035, d: .03, frame: 'oak', glass: true },   // 교가
 };
-const kindOf = n => /^oil_/.test(n) ? 'oil' : /^portrait_/.test(n) ? 'portrait' : /^photo_/.test(n) ? 'photo' : n === 'callig_scroll' ? 'scroll' : /^callig_/.test(n) ? 'callig' : /^cert_/.test(n) ? 'cert' : /^poster_/.test(n) ? 'poster' : 'student';
-const HEIGHT = { oil: 1.68, portrait: 1.78, photo: 1.62, callig: 1.95, scroll: 1.6, cert: 1.55, poster: 1.5, student: 1.52 };
+const kindOf = n => n === 'photo_aerial_campus' ? 'hero' : n === 'emblem_seorin' ? 'emblem' : n === 'callig_school_song' ? 'song' : /^oil_/.test(n) ? 'oil' : /^portrait_/.test(n) ? 'portrait' : /^photo_/.test(n) ? 'photo' : n === 'callig_scroll' ? 'scroll' : /^callig_/.test(n) ? 'callig' : /^cert_/.test(n) ? 'cert' : /^poster_/.test(n) ? 'poster' : 'student';
+const HEIGHT = { oil: 1.68, portrait: 1.78, photo: 1.62, callig: 1.95, scroll: 1.6, cert: 1.55, poster: 1.5, student: 1.52, hero: 1.7, emblem: 1.75, song: 1.62 };
 
 // 방 종류 → 걸 그림 (순서대로, 자리가 나는 만큼)
 const ROOM_ART = {
-  principal: ['callig_motto', 'portrait_p6', 'portrait_p7', 'portrait_p8', 'portrait_p9', 'portrait_p10', 'portrait_p11', 'oil_mountain_mist'],
-  staff: ['oil_sea_dusk', 'cert_school_2005', 'cert_science_2007', 'photo_grad_2007', 'callig_scroll'],
-  hall: ['oil_hanok_village', 'callig_motto', 'oil_mountain_dawn', 'cert_school_2005'],
-  library: ['callig_scroll', 'oil_hanok_village2', 'poster_book'],
-  corridor: ['photo_grad_2001', 'oil_mountain_autumn', 'poster_water', 'photo_grad_2004', 'poster_energy', 'poster_peace', 'oil_sea_dusk2'],
+  principal: ['callig_motto', 'photo_aerial_campus', 'portrait_p6', 'portrait_p7', 'portrait_p8', 'portrait_p9', 'portrait_p10', 'portrait_p11', 'emblem_seorin'],
+  staff: ['oil_sea_dusk', 'cert_school_2005', 'cert_science_2007', 'photo_grad_2007', 'callig_school_song', 'photo_classroom_2006'],
+  hall: ['emblem_seorin', 'photo_aerial_campus', 'callig_school_song', 'callig_motto', 'oil_hanok_village', 'cert_school_2005'],
+  library: ['photo_library_2008', 'callig_scroll', 'oil_hanok_village2', 'poster_book'],
+  corridor: ['photo_grad_2001', 'photo_spring_1999', 'poster_water', 'photo_grad_2004', 'photo_sports_1997', 'poster_energy', 'photo_autumn_2006', 'poster_peace', 'photo_gym_2005', 'oil_mountain_autumn'],
   art: ['art_wc_school', 'art_still_life', 'art_wc_cosmos', 'art_plaster_sketch', 'poster_water', 'poster_energy', 'poster_book', 'poster_peace'],
   music: ['poster_choir', 'oil_sea_dusk2', 'cert_choir_2006'],
-  history: ['photo_grad_1989', 'photo_grad_1993', 'photo_grad_1997', 'oil_hanok_village'],
-  fac_hist: ['photo_bcast_1998', 'portrait_p9', 'photo_grad_1989', 'photo_grad_1993', 'photo_grad_1997', 'photo_grad_2001', 'oil_mountain_dawn'],
-  fac_union: ['cert_bcast_2008', 'photo_grad_2004', 'poster_choir', 'poster_peace', 'oil_mountain_autumn'],
-  fac_aud: ['oil_sea_dusk', 'cert_choir_2006', 'photo_grad_2007', 'poster_choir'],
+  history: ['photo_opening_1968', 'photo_grad_1989', 'photo_grad_1993', 'photo_grad_1997', 'photo_gate_1994', 'photo_bcast_1998'],
+  fac_hist: ['photo_opening_1968', 'photo_aerial_campus', 'photo_bcast_1998', 'photo_grad_1989', 'photo_grad_1993', 'photo_grad_1997', 'photo_gate_1994', 'photo_gate_autumn_1996', 'photo_sports_1997', 'photo_grad_2001', 'emblem_seorin', 'portrait_p9'],
+  fac_union: ['cert_bcast_2008', 'photo_seorinje_2007', 'photo_sports_1997', 'photo_grad_2004', 'poster_choir', 'poster_peace', 'oil_mountain_autumn'],
+  fac_aud: ['photo_seorinje_2007', 'oil_sea_dusk', 'cert_choir_2006', 'photo_grad_2007', 'poster_choir', 'emblem_seorin'],
 };
 
 let MATS = null;
@@ -148,13 +151,13 @@ function buildFrame(rec, im, atlasRect, G, rnd) {
 }
 
 const loadImg = src => new Promise(res => { const im = new Image(); im.onload = () => res(im); im.onerror = () => res(null); im.src = src; });
-// 쓰는 그림만 2048² 아틀라스로 (선반 패킹, 넘치면 축소)
+// 쓰는 그림만 2048 × (≤3072) 아틀라스로 (선반 패킹, 넘치면 축소) — 사진이 늘어 2048² 에선 0.65배로 뭉개졌다
 function packAtlas(imgs) {
-  const S = 2048, list = Object.entries(imgs).sort((a, b) => b[1].height - a[1].height);
+  const S = 2048, SH = 3072, list = Object.entries(imgs).sort((a, b) => b[1].height - a[1].height);
   for (let sc = 1; sc > .2; sc -= .05) { let x = 0, y = 0, rowH = 0, ok = true; const rect = {};
-    for (const [n, im] of list) { const w = Math.ceil(im.width * sc) + 4, h = Math.ceil(im.height * sc) + 4; if (x + w > S) { x = 0; y += rowH; rowH = 0; } if (y + h > S) { ok = false; break; } rect[n] = [x + 2, y + 2, w - 4, h - 4]; x += w; rowH = Math.max(rowH, h); }
+    for (const [n, im] of list) { const w = Math.ceil(im.width * sc) + 4, h = Math.ceil(im.height * sc) + 4; if (x + w > S) { x = 0; y += rowH; rowH = 0; } if (y + h > SH) { ok = false; break; } rect[n] = [x + 2, y + 2, w - 4, h - 4]; x += w; rowH = Math.max(rowH, h); }
     if (!ok) continue;
-    const c = document.createElement('canvas'); c.width = S; c.height = Math.min(S, 1 << Math.ceil(Math.log2(y + rowH))); const g = c.getContext('2d'); g.fillStyle = '#555'; g.fillRect(0, 0, c.width, c.height);
+    const c = document.createElement('canvas'); c.width = S; c.height = Math.min(SH, Math.ceil((y + rowH) / 256) * 256); const g = c.getContext('2d'); g.fillStyle = '#555'; g.fillRect(0, 0, c.width, c.height);
     const uv = {}; for (const [n, [rx, ry, rw, rh]] of Object.entries(rect)) { g.drawImage(imgs[n], rx, ry, rw, rh); uv[n] = [(rx + .5) / S, 1 - (ry + rh - .5) / c.height, (rx + rw - .5) / S, 1 - (ry + .5) / c.height]; }
     const t = new THREE.CanvasTexture(c); t.colorSpace = THREE.SRGBColorSpace; t.anisotropy = 4; t.flipY = true; return { tex: t, uv };
   }
